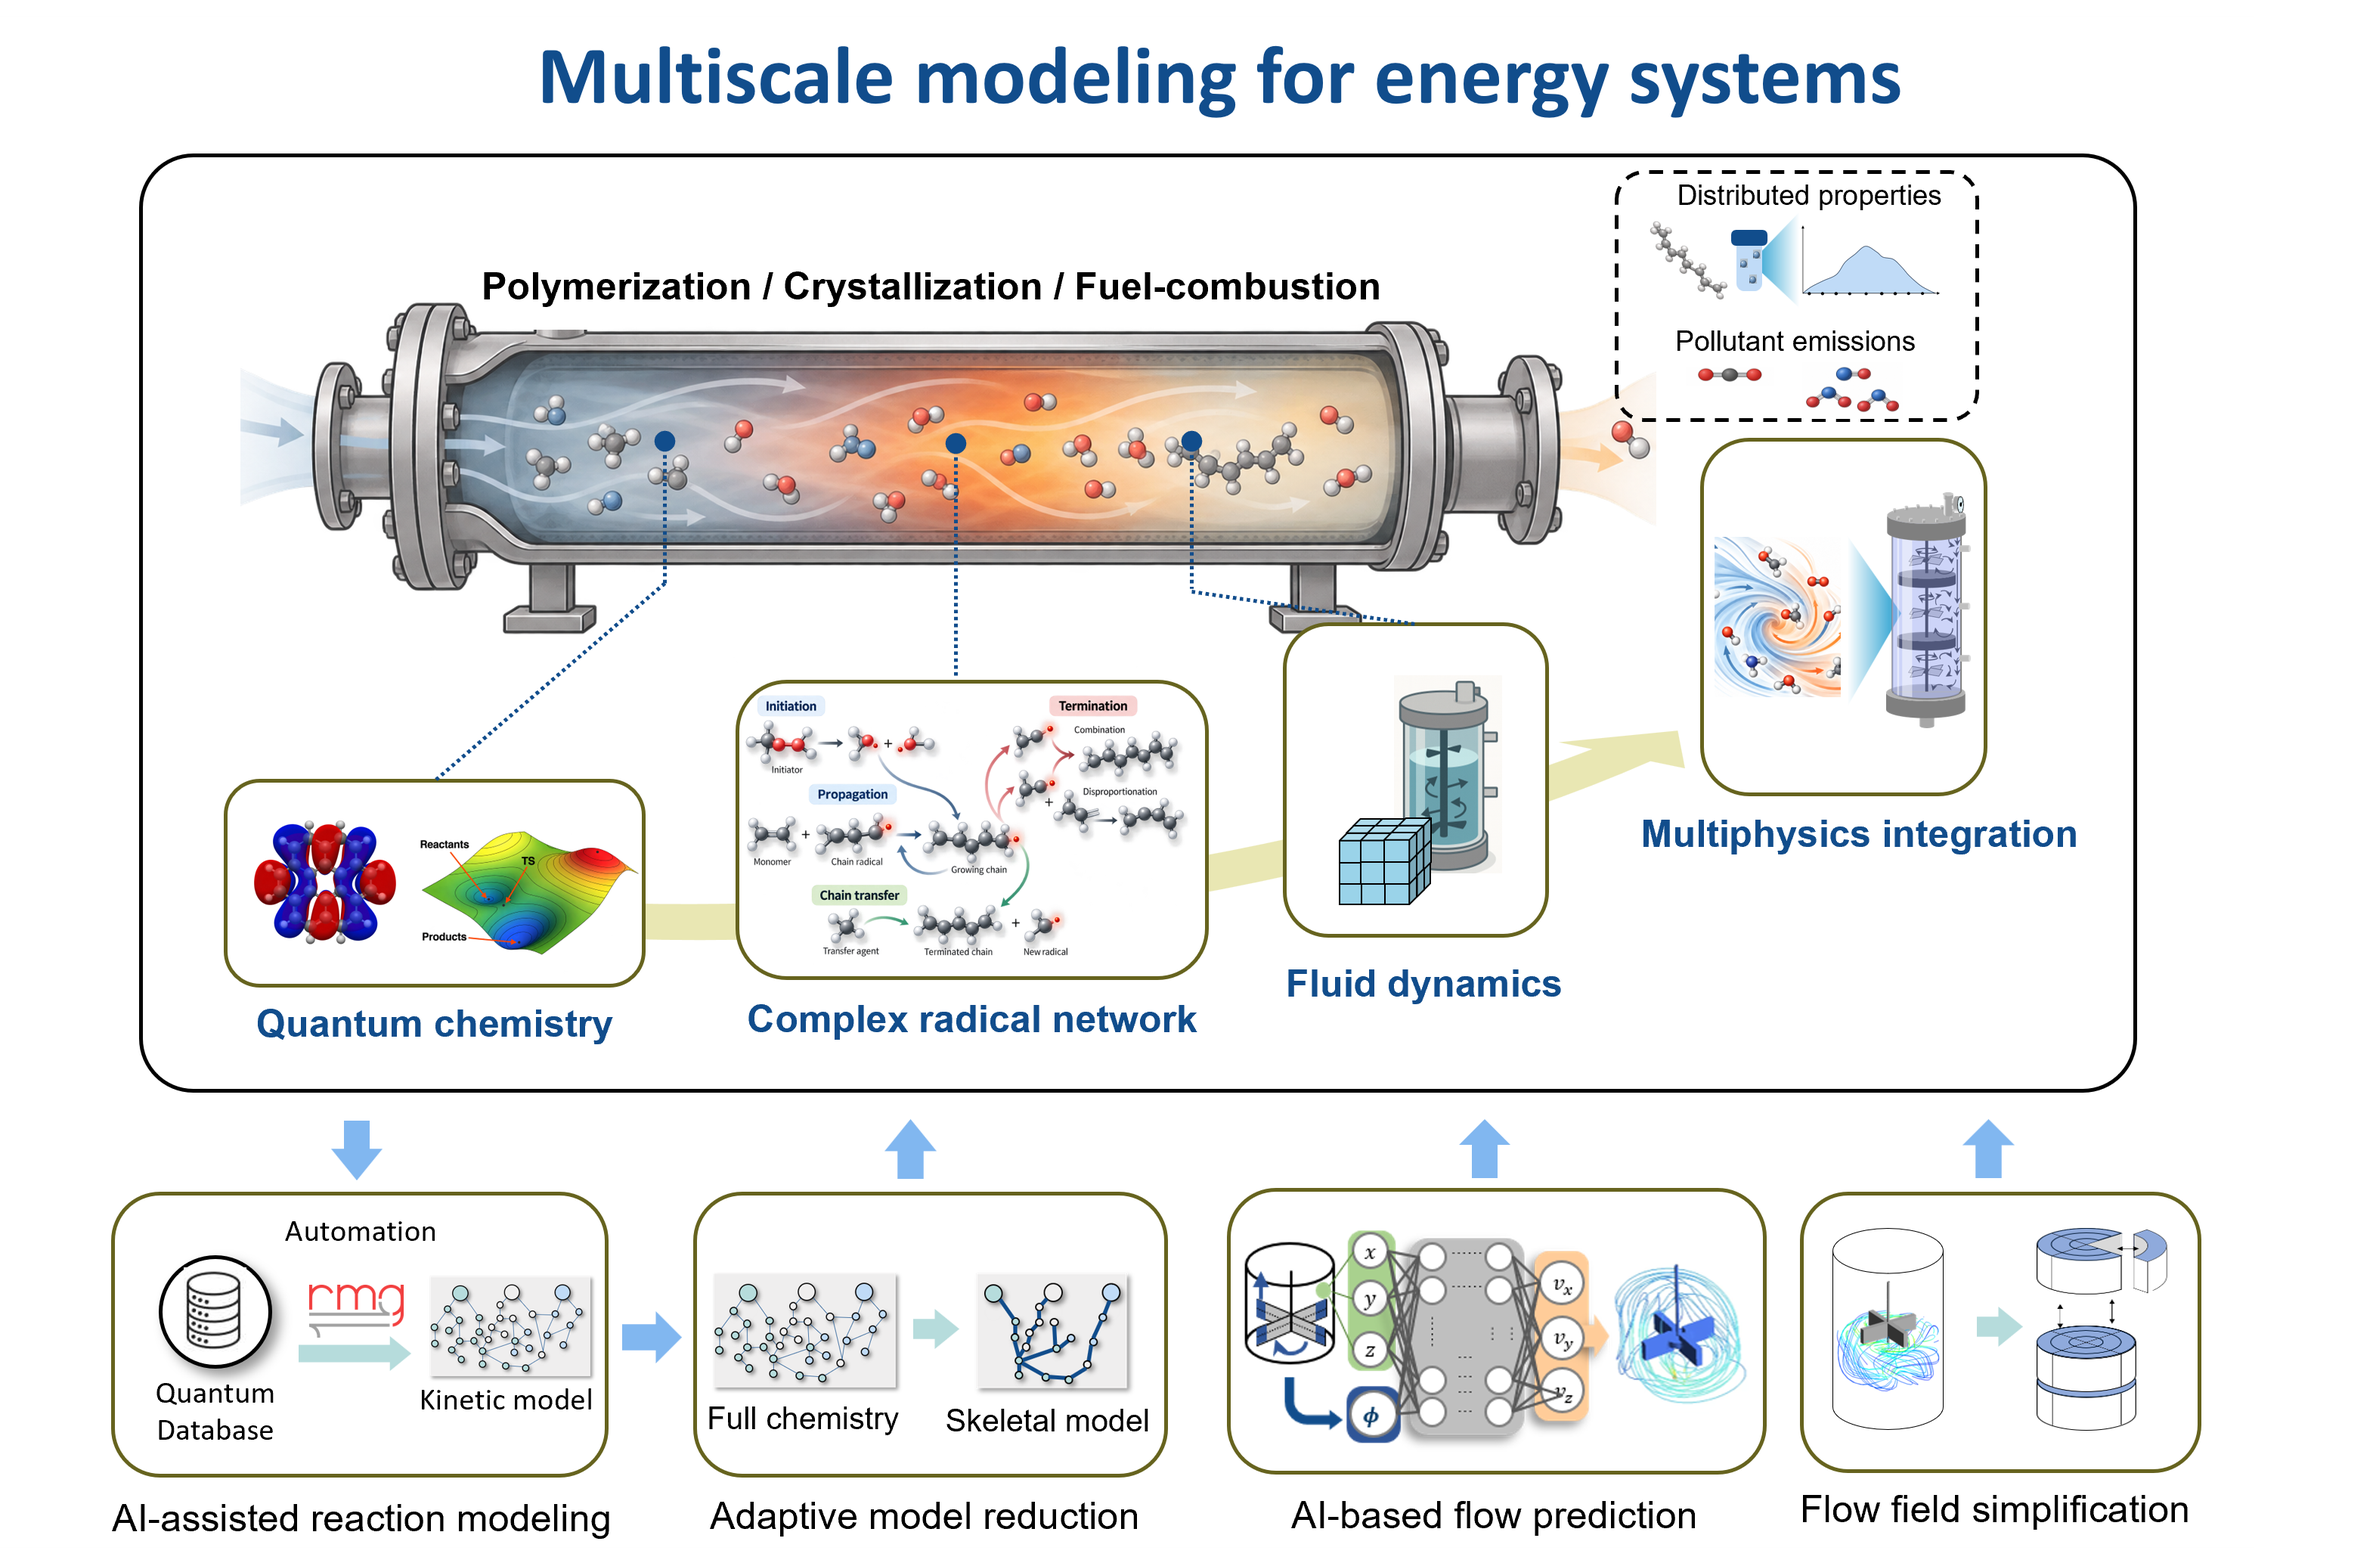
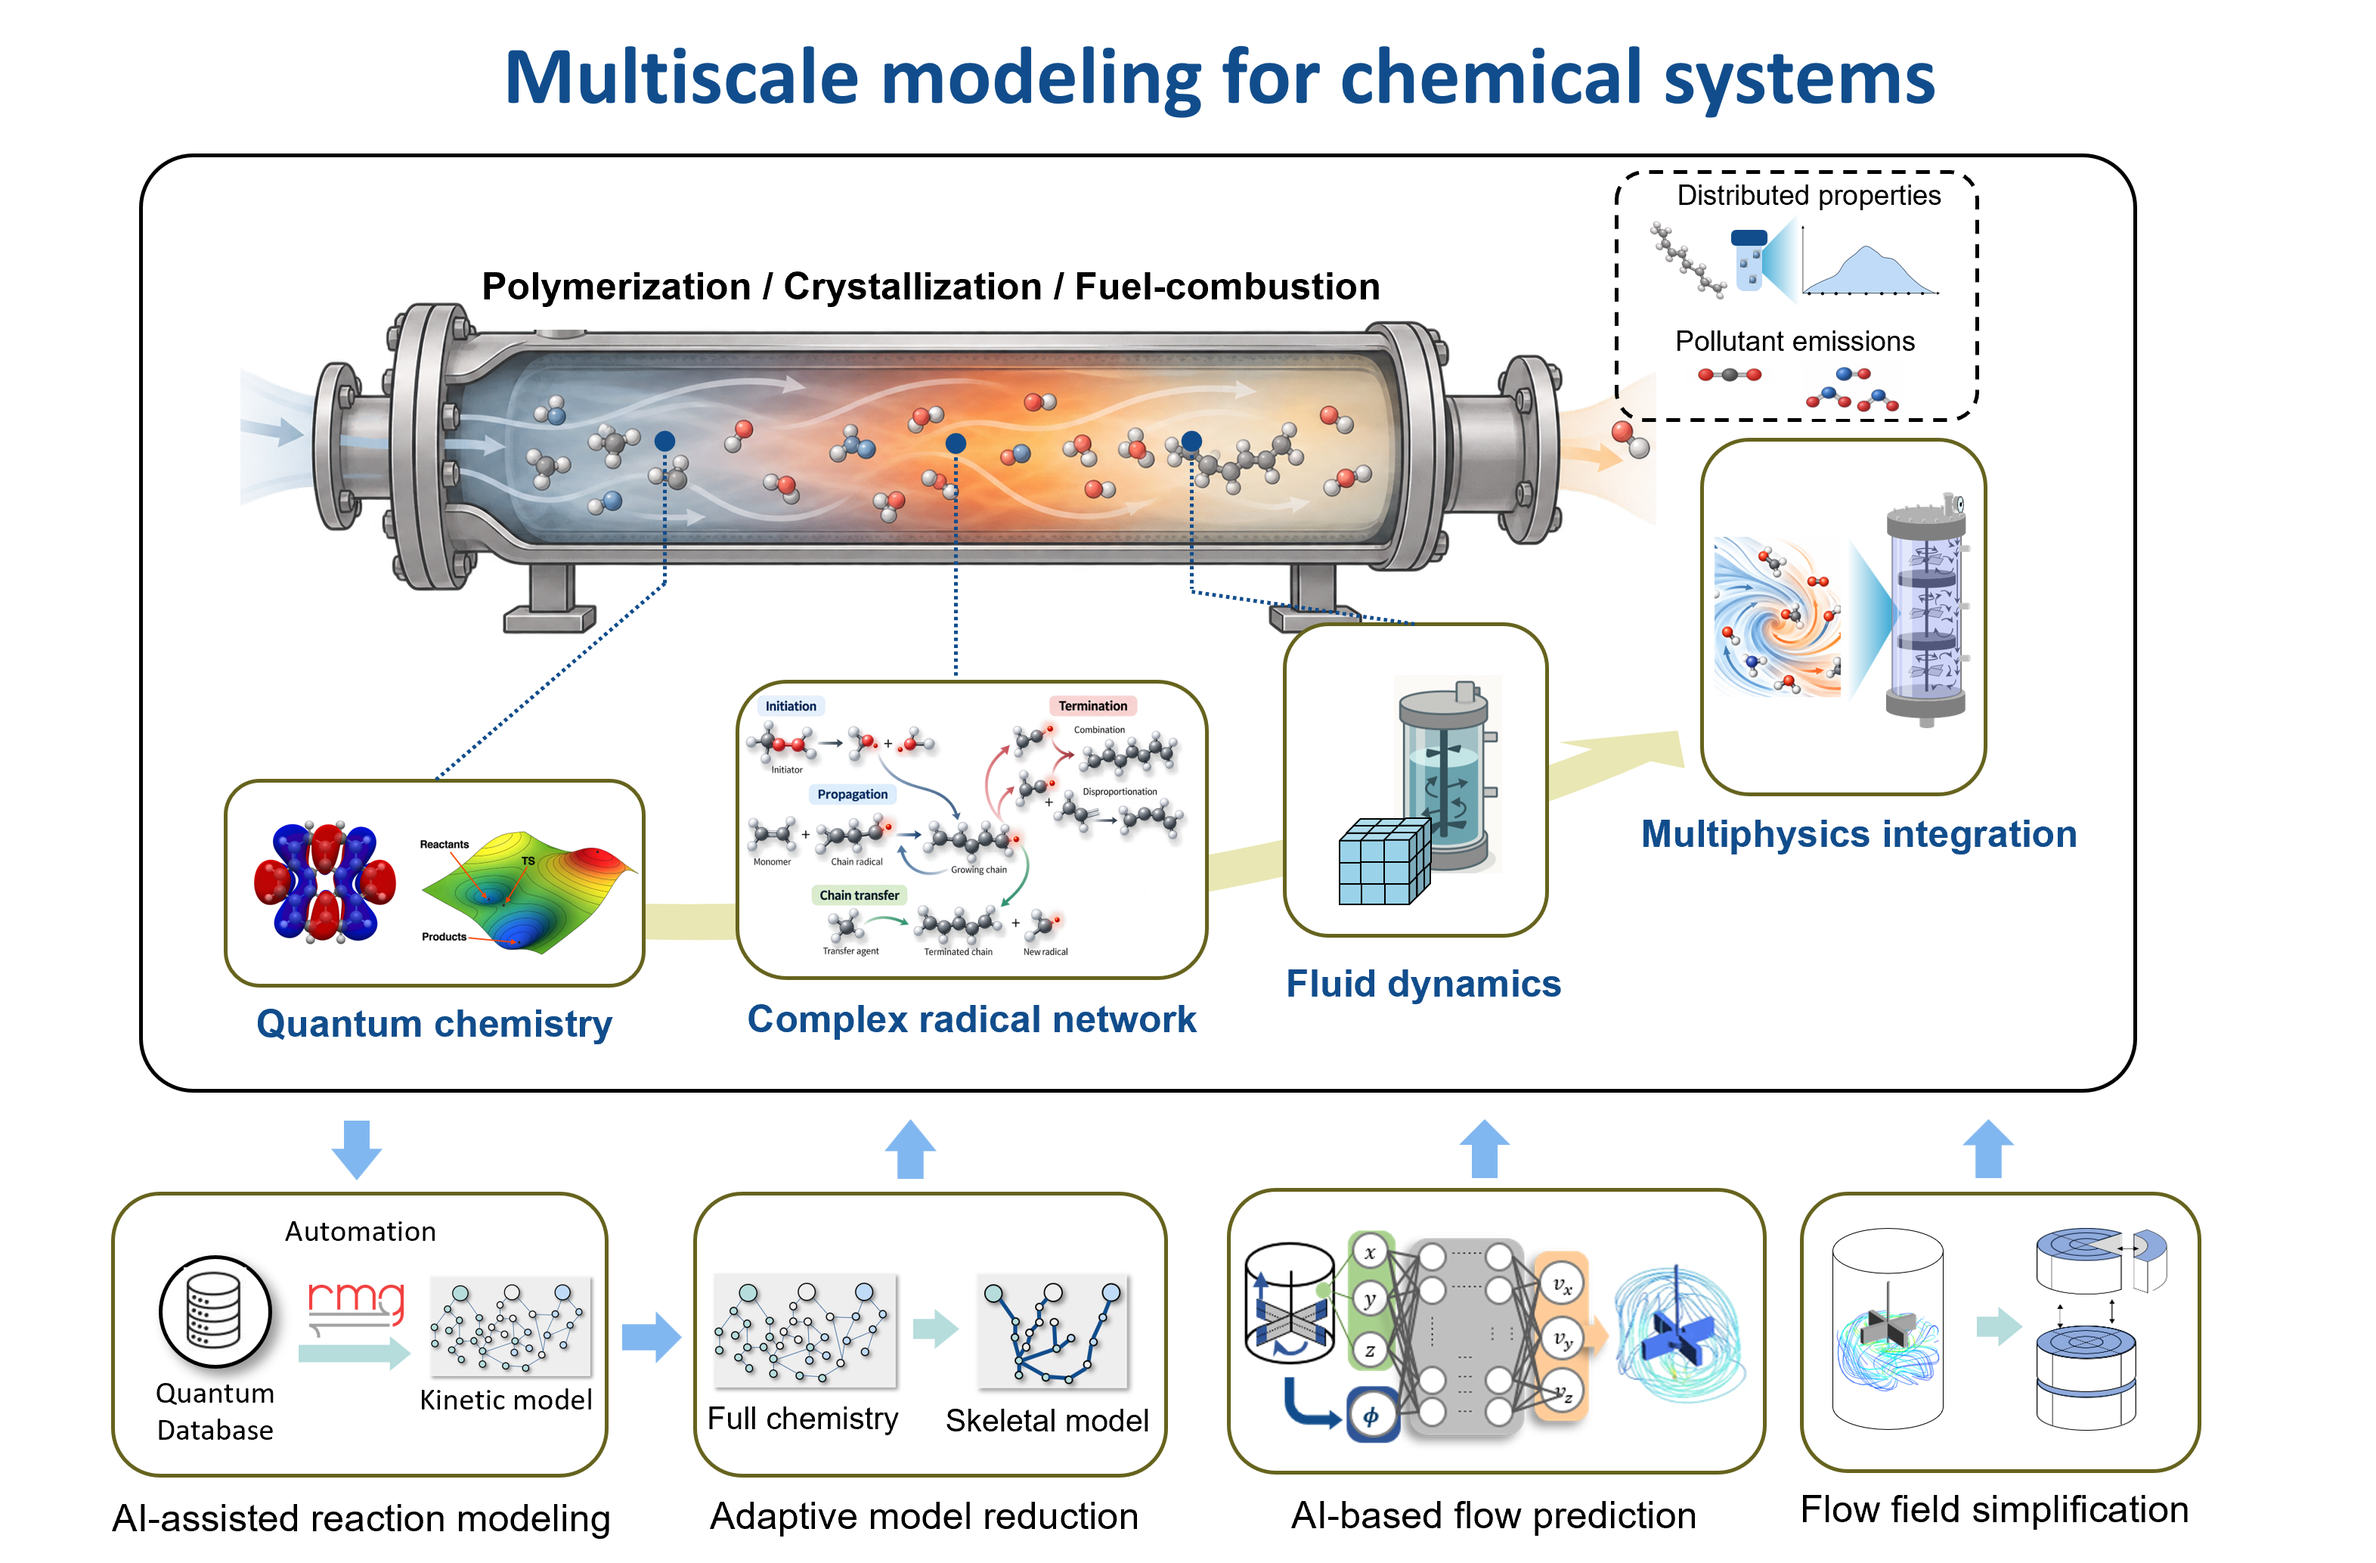
Restructure Profile/Research and refine research cards
- Merge intro and Profile into one section with a short academic bio
- Move research statement into Research with new title and subtitle
- Reorder research cards (title, figure, description) and rename areas
- Smaller hero name on one line, balanced section headings
- Square card corners, larger card text, cache-busting CSS/JS links
- Update research framework figure title to chemical systems

Changed region(s): [[0.1871, 0.031, 0.8107, 0.0929]]

diff --git a/index.html b/index.html
@@ -7,7 +7,7 @@
     <meta name="description" content="Sunkyu Shin - chemical engineering postdoctoral researcher at MIT. Multiscale modeling, kinetics, reactors, physics-informed AI.">
     <title>Research Portfolio | Sunkyu Shin</title>
     <link rel="icon" type="image/svg+xml" href="assets/favicon.svg">
-    <link rel="stylesheet" href="css/style.css">
+    <link rel="stylesheet" href="css/style.css?v=20261016f">
   </head>
   <body>
     <header class="site-header">
@@ -62,10 +62,10 @@
           <div class="section-head research-head reveal">
             <div>
               <p class="section-kicker">02 / Research</p>
-              <h2>From Quantum Chemistry<br>to Reactor Scale</h2>
-              <p class="section-subtitle">Multiscale modeling enabled by computational methods and scientific AI.</p>
+              <h2>From Molecules to Reactors,<br>Driven by Automation and AI</h2>
+              <p class="section-subtitle">Multiscale modeling built on physics-based computational methods.</p>
             </div>
-            <p><strong>My research focuses on the computational foundations of chemical process engineering.</strong> I connect molecular chemistry, transport phenomena, and reactor-scale dynamics through multiscale modeling. I develop scientific AI methods to integrate these scales efficiently for process prediction and optimization.</p>
+            <p><strong>My research focuses on computational foundations, automation, and AI for chemical process engineering.</strong> I connect molecular chemistry, transport phenomena, and reactor-scale dynamics through multiscale modeling. I develop scientific AI methods to integrate these scales efficiently for process prediction and optimization.</p>
           </div>
           <div class="framework-panel reveal">
             <div class="framework-top">
@@ -82,13 +82,13 @@
             <a class="research-card reveal" href="research-kinetics.html">
               <div class="research-card-head">
                 <span class="area-number">RESEARCH AREA / 01</span>
-                <h3>Quantum–Kinetic<br>Modeling</h3>
+                <h3>Quantum Chemistry–Based Automated Reaction Network Modeling</h3>
               </div>
               <div class="research-art">
                 <img src="assets/kinetics-thumb.png" alt="Automated reaction mechanism generation diagram" loading="lazy">
               </div>
               <div class="research-card-content">
-                <p>Automated construction of reaction networks using quantum chemistry data and kinetic databases.</p>
+                <p>Building detailed kinetic models for fuel systems with the Reaction Mechanism Generator (RMG), based on quantum chemistry databases.</p>
                 <div class="card-arrow">
                   <span>Explore research</span>
                   <span class="arrow-circle">
@@ -100,7 +100,7 @@
             <a class="research-card reveal" href="research-reactors.html">
               <div class="research-card-head">
                 <span class="area-number">RESEARCH AREA / 02</span>
-                <h3>Multiphysics Reactor<br>Modeling</h3>
+                <h3>Multiphysics Modeling of Chemical Reactors</h3>
               </div>
               <div class="research-art reactor">
                 <img src="assets/reactor-thumb.png" alt="Multiphysics chemical reactor with species and temperature gradients" loading="lazy">
@@ -372,6 +372,6 @@
         </div>
       </div>
     </footer>
-    <script src="js/site.js" defer></script>
+    <script src="js/site.js?v=20261016f" defer></script>
   </body>
 </html>

diff --git a/research-kinetics.html b/research-kinetics.html
@@ -4,10 +4,10 @@
     <meta charset="UTF-8">
     <meta name="viewport" content="width=device-width, initial-scale=1.0">
     <meta name="theme-color" content="#ffffff">
-    <meta name="description" content="Quantum–Kinetic Modeling - research by Sunkyu Shin.">
-    <title>Quantum–Kinetic Modeling | Sunkyu Shin</title>
+    <meta name="description" content="Quantum Chemistry–Based Automated Reaction Network Modeling - research by Sunkyu Shin.">
+    <title>Quantum Chemistry–Based Automated Reaction Network Modeling | Sunkyu Shin</title>
     <link rel="icon" type="image/svg+xml" href="assets/favicon.svg">
-    <link rel="stylesheet" href="css/style.css">
+    <link rel="stylesheet" href="css/style.css?v=20261016f">
   </head>
   <body>
     <header class="site-header">
@@ -42,7 +42,7 @@
           </div>
           <div class="page-lead reveal">
             <div class="eyebrow">Research area / 01</div>
-            <h1>Quantum–Kinetic Modeling</h1>
+            <h1>Quantum Chemistry–Based Automated Reaction Network Modeling</h1>
             <p>Developing detailed chemical kinetic mechanisms for energy conversion by connecting quantum-chemistry-informed reaction data, automated mechanism generation, and experimental combustion evidence.</p>
             <div class="pillrow">
               <span class="pill">RMG</span>
@@ -57,7 +57,7 @@
         <div class="shell">
           <div class="detail-graphic reveal">
             <div class="detail-visual">
-              <img src="assets/kinetics-thumb.png" alt="Research schematic for Quantum–Kinetic Modeling">
+              <img src="assets/kinetics-thumb.png" alt="Research schematic for Quantum Chemistry–Based Automated Reaction Network Modeling">
             </div>
             <div class="detail-copy">
               <p class="section-kicker">Approach / 01</p>
@@ -149,6 +149,6 @@
         </div>
       </div>
     </footer>
-    <script src="js/site.js" defer></script>
+    <script src="js/site.js?v=20261016f" defer></script>
   </body>
 </html>

diff --git a/research-reactors.html b/research-reactors.html
@@ -4,10 +4,10 @@
     <meta charset="UTF-8">
     <meta name="viewport" content="width=device-width, initial-scale=1.0">
     <meta name="theme-color" content="#ffffff">
-    <meta name="description" content="Multiphysics Reactor Modeling - research by Sunkyu Shin.">
-    <title>Multiphysics Reactor Modeling | Sunkyu Shin</title>
+    <meta name="description" content="Multiphysics Modeling of Chemical Reactors - research by Sunkyu Shin.">
+    <title>Multiphysics Modeling of Chemical Reactors | Sunkyu Shin</title>
     <link rel="icon" type="image/svg+xml" href="assets/favicon.svg">
-    <link rel="stylesheet" href="css/style.css">
+    <link rel="stylesheet" href="css/style.css?v=20261016f">
   </head>
   <body>
     <header class="site-header">
@@ -42,7 +42,7 @@
           </div>
           <div class="page-lead reveal">
             <div class="eyebrow">Research area / 02</div>
-            <h1>Multiphysics Reactor Modeling</h1>
+            <h1>Multiphysics Modeling of Chemical Reactors</h1>
             <p>Predicting reactor performance through coupled models of fluid flow, mixing, transport, reaction kinetics, and evolving product distributions.</p>
             <div class="pillrow">
               <span class="pill">CFD</span>
@@ -57,7 +57,7 @@
         <div class="shell">
           <div class="detail-graphic reveal">
             <div class="detail-visual">
-              <img src="assets/reactor-thumb.png" alt="Research schematic for Multiphysics Reactor Modeling">
+              <img src="assets/reactor-thumb.png" alt="Research schematic for Multiphysics Modeling of Chemical Reactors">
             </div>
             <div class="detail-copy">
               <p class="section-kicker">Approach / 01</p>
@@ -150,6 +150,6 @@
         </div>
       </div>
     </footer>
-    <script src="js/site.js" defer></script>
+    <script src="js/site.js?v=20261016f" defer></script>
   </body>
 </html>

diff --git a/css/style.css b/css/style.css
@@ -421,8 +421,14 @@ a:focus-visible {
   margin: 16px 0 0;
 }
 
+.research-head {
+  display: grid;
+  grid-template-columns: minmax(0,1.2fr) minmax(0,1fr);
+  gap: 48px;
+}
+
 .research-head > p {
-  max-width: 540px;
+  max-width: none;
   font-size: 16.5px;
 }
 
@@ -504,13 +510,23 @@ a:focus-visible {
   min-height: 440px;
   background: #fff;
   border: 1px solid #dce8ec;
-  border-radius: 24px;
+  border-radius: 6px;
   overflow: hidden;
   position: relative;
   box-shadow: 0 4px 19px rgba(35,73,89,.02);
   display: flex;
   flex-direction: column;
   transition: transform .23s,box-shadow .23s,border-color .23s;
+}
+
+@supports (grid-template-rows: subgrid) {
+  /* line up the images across cards even when titles wrap differently */
+  .research-card {
+    display: grid;
+    grid-row: span 3;
+    grid-template-rows: subgrid;
+    row-gap: 0;
+  }
 }
 
 .research-card:hover {
@@ -570,10 +586,10 @@ a:focus-visible {
 }
 
 .research-card p {
-  font-size: 13px;
+  font-size: 15px;
   color: var(--muted);
   margin: 0 0 28px;
-  line-height: 1.8;
+  line-height: 1.7;
 }
 
 .card-arrow {
@@ -1172,6 +1188,17 @@ a:focus-visible {
   }
 }
 
+@media (max-width: 900px) {
+  .research-head {
+    grid-template-columns: 1fr;
+    gap: 16px;
+  }
+
+  .research-head > p {
+    max-width: 640px;
+  }
+}
+
 @media (max-width: 780px) {
   .shell {
     padding: 0 24px;
@@ -1360,6 +1387,10 @@ a:focus-visible {
 
   .section-head h2 {
     font-size: 32px;
+  }
+
+  .research-head h2 {
+    font-size: 28px;
   }
 
   .timeline-entry {

diff --git a/research-ai.html b/research-ai.html
@@ -7,7 +7,7 @@
     <meta name="description" content="Scientific AI Integration - research by Sunkyu Shin.">
     <title>Scientific AI Integration | Sunkyu Shin</title>
     <link rel="icon" type="image/svg+xml" href="assets/favicon.svg">
-    <link rel="stylesheet" href="css/style.css">
+    <link rel="stylesheet" href="css/style.css?v=20261016f">
   </head>
   <body>
     <header class="site-header">
@@ -170,6 +170,6 @@
         </div>
       </div>
     </footer>
-    <script src="js/site.js" defer></script>
+    <script src="js/site.js?v=20261016f" defer></script>
   </body>
 </html>

diff --git a/README.md b/README.md
@@ -4,8 +4,8 @@ A self-contained, responsive, static academic portfolio. No paid service, web fr
 
 ## Pages
 - `index.html`: Homepage. Top-level navigation: Profile / Research / Experience / Publications.
-- `research-kinetics.html`: Quantum–Kinetic Modeling.
-- `research-reactors.html`: Multiphysics Reactor Modeling.
+- `research-kinetics.html`: Quantum Chemistry–Based Automated Reaction Network Modeling.
+- `research-reactors.html`: Multiphysics Modeling of Chemical Reactors.
 - `research-ai.html`: Scientific AI Integration.
 
 ## Preview on your computer
